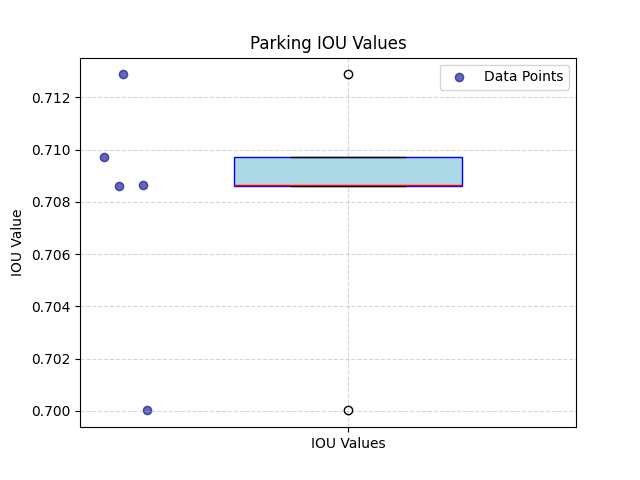
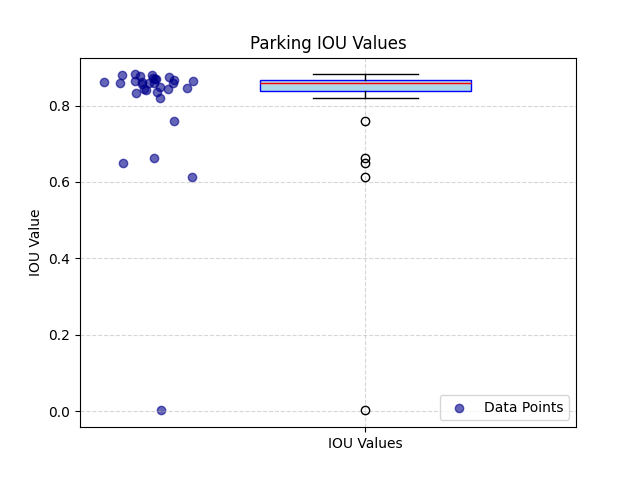
bigger experiment and slightly tuned hyperparams

diff --git a/v2_controller.py b/v2_controller.py
@@ -223,94 +223,12 @@ class PIDLateralController:
             :param vehicle_transform: current transform of the vehicle
             :return: steering control in the range [-1, 1]
         """
-        # front_cur = cur.offset(1)
-        # front_wp = wp.offset(1)
-        # back_cur = cur.offset(-1)
-        # back_wp = wp.offset(-1)
-        # forward_vec = np.array([np.cos(cur.angle), np.sin(cur.angle), 0])
-
-        # front_wp_vec = np.array([front_wp.x - front_cur.x, front_wp.y - front_cur.y, 0])
-        # front_dot = np.dot(forward_vec, front_wp_vec) / (np.linalg.norm(forward_vec) * np.linalg.norm(front_wp_vec))
-        # front_cross = np.cross(forward_vec, front_wp_vec)
-        # front_angle = np.acos(front_dot)
-        # if front_cross[2] < 0:
-        #     front_angle *= -1
-
-        # back_wp_vec = np.array([back_wp.x - back_cur.x, back_wp.y - back_cur.y, 0])
-        # back_dot = np.dot(forward_vec, back_wp_vec) / (np.linalg.norm(forward_vec) * np.linalg.norm(back_wp_vec))
-        # back_cross = np.cross(forward_vec, back_wp_vec)
-        # back_angle = np.acos(back_dot)
-        # if back_cross[2] < 0:
-        #     back_angle *= -1
-        # if front_cross[2] < 0 and back_cross[2] > 0 or front_cross[2] > 0 and back_cross[2] < 0:
-        #     back_angle *= -1
-
-        # print(f'{np.rad2deg(front_angle):.2f} {np.rad2deg(back_angle):.2f}')
-        # delta = 0.3*front_angle + 0.7*back_angle
-        # delta *= 0.1
-        # delta *= 2/(cur.speed*cur.speed) + 0.5
-
-        # back_cur = cur.offset(-1) if not is_reverse else cur.offset(1)
-        # back_wp = wp.offset(0) if not is_reverse else wp.offset(1)
-
-        # alpha = np.atan2(back_wp.y - back_cur.y, back_wp.x - back_cur.x) - cur.angle
-        # delta = np.atan2(2.0 * 3.0 * np.sin(alpha), np.sqrt((back_wp.x - back_cur.x) ** 2 + (back_wp.y - back_cur.y) ** 2))
-
         alpha = np.atan2(wp.y - cur.y, wp.x - cur.x) - cur.angle
         delta = np.atan2(2.0 * 3.0 * np.sin(alpha), np.sqrt((wp.x - cur.x) ** 2 + (wp.y - cur.y) ** 2))
-        # delta = np.atan2(3.0 * (wp.angle - cur.angle), np.sqrt((back_wp.x - back_cur.x) ** 2 + (back_wp.y - back_cur.y) ** 2))
-        
-        # forward_vec = np.array([np.cos(cur.angle), np.sin(cur.angle), 0])
-        # wp_vec = np.array([wp.x - cur.x, wp.y - cur.y, 0])
-        # dot = np.dot(forward_vec, wp_vec) / (np.linalg.norm(forward_vec) * np.linalg.norm(wp_vec))
-        # cross = np.cross(forward_vec, wp_vec)
-        # delta = np.acos(dot)
-        # if cross[2] < 0:
-        #     delta *= -1
-        
-        # self._e_buffer.append(delta)
-        # if len(self._e_buffer) >= 2:
-        #     _de = (self._e_buffer[-1] - self._e_buffer[-2]) / self._dt
-        #     _ie = sum(self._e_buffer) * self._dt
-        # else:
-        #     _de = 0.0
-        #     _ie = 0.0
-        # k_p, k_d, k_i = 1, 0.1, 0.0
-        # delta = (k_p * delta) + (k_d * _de) + (k_i * _ie)
 
-        # dangle = (wp.angle - prev_wp.angle) / 0.5
-        # delta = np.atan2(2.875/2 * dangle, 1)
-        print(f'{np.rad2deg(cur.angle):.2f} {np.rad2deg(wp.angle):.2f} {np.rad2deg(delta):.2f}')
-
-        # delta *= 1/(cur.speed*cur.speed) + 2
-
-        # delta = (1.5/cur.speed) * (wp.angle - cur.angle)
-        # delta = 0.2*np.atan2(3 * (wp.angle - cur.angle), cur.speed * 2 * cur.distance(wp) / (cur.speed + wp.speed))
-        # delta = 1 * (wp.angle - cur.angle) / (cur.distance(wp) / cur.speed)
-        # print(f'{np.rad2deg(cur.angle):.2f} {np.rad2deg(wp.angle):.2f} {np.rad2deg(delta):.2f}')
-        # front_cur = cur.offset(1)
-        # front_wp = wp.offset(1)
-        # phi = wp.angle - cur.angle
-        # e = np.atan2(0.1 * np.sqrt((front_wp.x - front_cur.x) ** 2 + (front_wp.y - front_cur.y) ** 2), cur.speed) 
-        # print(f'{np.rad2deg(phi):.2f} {np.rad2deg(e):.2f}')
-        # print()
-        # phi = np.arctan2(np.sin(phi), np.cos(phi))
-        # delta = phi + e
-
-        # delta = wp.angle - cur.angle
         max_angle = np.deg2rad(70)
         delta = np.clip(delta, -max_angle, max_angle)
         delta /= max_angle
-
-        # front_cur = cur.offset(1)
-        # front_wp = wp.offset(1)
-        # # heading_err = wp.angle - cur.angle
-        # heading_err = wp.angle - cur.angle
-        # cte = np.atan2(0.1 * np.sqrt((front_wp.x - front_cur.x) ** 2 + (front_wp.y - front_cur.y) ** 2), cur.speed)
-        # delta = heading_err + cte
-        # delta = np.arctan2(np.sin(delta), np.cos(delta))
-        # delta = np.clip(delta, -np.pi / 6, np.pi / 6)
-        # delta /= np.pi / 6
 
         return delta
 

diff --git a/v2.py b/v2.py
@@ -12,11 +12,12 @@ def kmph_to_mps(speed): return speed/3.6
 def mps_to_kmph(speed): return speed*3.6
 
 DESTINATION_THRESHOLD = 0.2
-REPLAN_THRESHOLD = 10
+REPLAN_THRESHOLD = 2
 LOOKAHEAD = 3
+TRAJECTORY_EXTENSION = 5
 MAX_ACCELERATION = 1
 MAX_SPEED = kmph_to_mps(10)
-MIN_SPEED = kmph_to_mps(5)
+MIN_SPEED = kmph_to_mps(2)
 STOP_CONTROL = carla.VehicleControl(brake=1.0)
 
 class Mode(Enum):
@@ -205,17 +206,14 @@ class CarlaCar():
     def debug_step(self):
         cur = self.car.cur
         self.world.debug.draw_string(carla.Location(x=cur.x, y=cur.y), 'X', draw_shadow=False, color=carla.Color(r=0, g=255, b=0), life_time=0.1, persistent_lines=True)
-        # self.world.debug.draw_string(carla.Location(x=self.car.trajectory[0].offset(1).x, y=self.car.trajectory[0].offset(1).y), 'X', draw_shadow=False, color=carla.Color(r=255, g=255, b=0), life_time=0.1, persistent_lines=True)
-        # self.world.debug.draw_string(carla.Location(x=self.car.trajectory[0].offset(-1).x, y=self.car.trajectory[0].offset(-1).y), 'X', draw_shadow=False, color=carla.Color(r=255, g=0, b=255), life_time=0.1, persistent_lines=True)
-        # print(carla.VehicleWheelLocation.FR_WHEEL)
-        # print(self.actor.get_wheel_steer_angle(carla.VehicleWheelLocation.FL_Wheel))
-        # physics_control = self.actor.get_physics_control()
-        # print(self.car.cur.distance(physics_control.wheels[2].position / 100))
         future_wp = self.car.trajectory[min(self.car.ti + LOOKAHEAD, len(self.car.trajectory) - 1)]
         self.world.debug.draw_string(carla.Location(x=future_wp.x, y=future_wp.y), 'o', draw_shadow=False, color=carla.Color(r=0, g=0, b=255), life_time=0.1, persistent_lines=True)
-        for loc in self.car.trajectory:
-            # loc = loc.offset(-1)
-            self.world.debug.draw_string(carla.Location(x=loc.x, y=loc.y), 'o', draw_shadow=False, color=carla.Color(r=255, g=0, b=0), life_time=1.0, persistent_lines=True)
+        for i, loc in enumerate(self.car.trajectory):
+            if i == min(self.car.ti + LOOKAHEAD, len(self.car.trajectory) - 1):
+                color = carla.Color(r=0, g=0, b=255)
+            else:
+                color = carla.Color(r=255, g=0, b=0)
+            self.world.debug.draw_string(carla.Location(x=loc.x, y=loc.y), 'o', draw_shadow=False, color=color, life_time=1.0, persistent_lines=True)
 
     def destroy(self):
         self.actor.destroy()
@@ -281,7 +279,7 @@ class Car():
         cur = self.cur
         destination = self.destination
         distance_to_destination = cur.distance(destination)
-        if self.mode == Mode.PARKED or distance_to_destination < DESTINATION_THRESHOLD:
+        if self.mode == Mode.PARKED or distance_to_destination < DESTINATION_THRESHOLD and self.ti >= len(self.trajectory) - TRAJECTORY_EXTENSION - 1:
             self.mode = Mode.PARKED
             return STOP_CONTROL
 
@@ -298,11 +296,8 @@ class Car():
                 new_trajectory = plan_hybrid_astar(cur, destination, self.obs)
 
             if new_trajectory:
-                new_trajectory.append(destination.offset(1/3))
-                new_trajectory.append(destination.offset(2/3))
-                new_trajectory.append(destination.offset(3/3))
-                new_trajectory.append(destination.offset(4/3))
-                new_trajectory.append(destination.offset(5/3))
+                for i in range(1, TRAJECTORY_EXTENSION+1):
+                    new_trajectory.append(destination.offset(i/3))
                 self.ti = 0
                 trajectory = self.trajectory = new_trajectory
             else:

diff --git a/v2_experiment_utils.py b/v2_experiment_utils.py
@@ -66,17 +66,26 @@ def town04_spawn_ego_vehicle(world, destination_parking_spot):
     blueprint = world.get_blueprint_library().filter(EGO_VEHICLE)[0]
     return CarlaCar(world, blueprint, player_location_Town04, destination_parking_spot_loc, approximate_bb_from_center(destination_parking_spot_loc), debug=DEBUG)
 
-def town04_spawn_parked_cars(world, spawn_points, skip):
+def town04_spawn_parked_cars(world, spawn_points, skip, num_random_cars):
     blueprints = world.get_blueprint_library().filter('vehicle.*.*')
     blueprints = [bp for bp in blueprints if bp.id in PARKED_VEHICLES]
     parked_cars = []
     parked_cars_bbs = []
 
+    random_spawn_points = random.sample(range(len(parking_vehicle_locations_Town04)), num_random_cars)
+    new_spawn_points = spawn_points.copy()
+    for spawn_point in random_spawn_points:
+        if spawn_point != skip and spawn_point not in spawn_points:
+            new_spawn_points.append(spawn_point)
+    spawn_points = new_spawn_points
+
     for i in spawn_points:
         spawn_point = parking_vehicle_locations_Town04[i]
         npc_transform = carla.Transform(spawn_point, rotation=random.choice(parking_vehicle_rotation))
         npc_bp = random.choice(blueprints)
-        npc = world.spawn_actor(npc_bp, npc_transform)
+        npc = world.try_spawn_actor(npc_bp, npc_transform)
+        if npc is None:
+            continue
         npc.set_simulate_physics(False)
         parked_cars.append(npc)
         parked_cars_bbs.append([

diff --git a/v2_experiment.py b/v2_experiment.py
@@ -19,16 +19,43 @@ import matplotlib.pyplot as plt
 
 SCENARIOS = [
     (17, [16, 18]),
-    (25, [24, 26]),
     (18, [17, 19]),
     (19, [18, 20]),
+    (20, [19, 21]),
+    (21, [20, 22]),
+    (22, [21, 23]),
+    (23, [22, 24]),
+    (24, [23, 25]),
+    (25, [24, 26]),
+    (26, [25, 27]),
+    (27, [26, 28]),
+    (28, [27, 29]),
+    (29, [28, 30]),
+    (30, [29, 31]),
+    (31, [30, 32]),
+    (32, [31, 33]),
+    (33, [32, 34]),
+    (34, [33, 35]),
     (35, [34, 36]),
+    (36, [35, 37]),
+    (37, [36, 38]),
+    (38, [37, 39]),
+    (39, [38, 40]),
+    (40, [39, 41]),
+    (41, [40, 42]),
+    (42, [41, 43]),
+    (43, [42, 44]),
+    (44, [43, 45]),
+    (45, [44, 46]),
+    (46, [45, 47]),
+    (47, [46, 48]),
 ]
+NUM_RANDOM_CARS = 25
 
 def run_scenario(world, destination_parking_spot, parked_spots, ious):
     try:
         # load parked cars
-        parked_cars, parked_cars_bbs = town04_spawn_parked_cars(world, parked_spots, destination_parking_spot)
+        parked_cars, parked_cars_bbs = town04_spawn_parked_cars(world, parked_spots, destination_parking_spot, NUM_RANDOM_CARS)
 
         # load car
         car = town04_spawn_ego_vehicle(world, destination_parking_spot)

diff --git a/hybrid_a_star/car.py b/hybrid_a_star/car.py
@@ -34,7 +34,7 @@ def rot_mat_2d(angle):
 
 WB = 3  # rear to front wheel
 W = 2.0  # width of car
-LF = .868  # distance from rear to vehicle front end
+LF = 3.5  # distance from rear to vehicle front end
 LB = .977  # distance from rear to vehicle back end
 MAX_STEER = 0.5  # [rad] maximum steering angle
 
